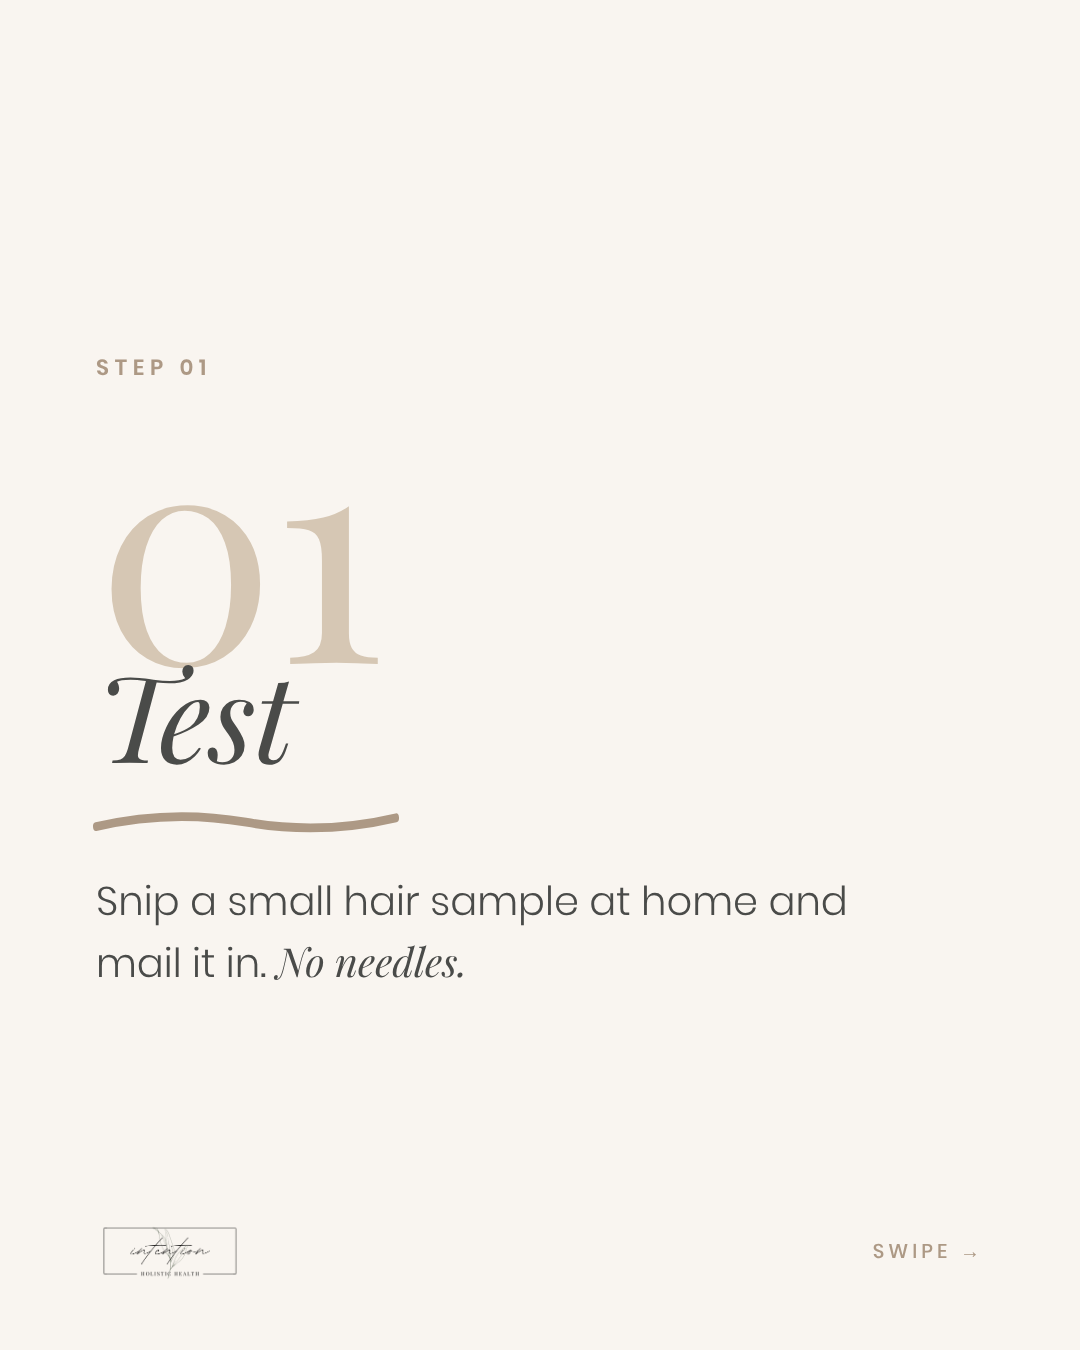
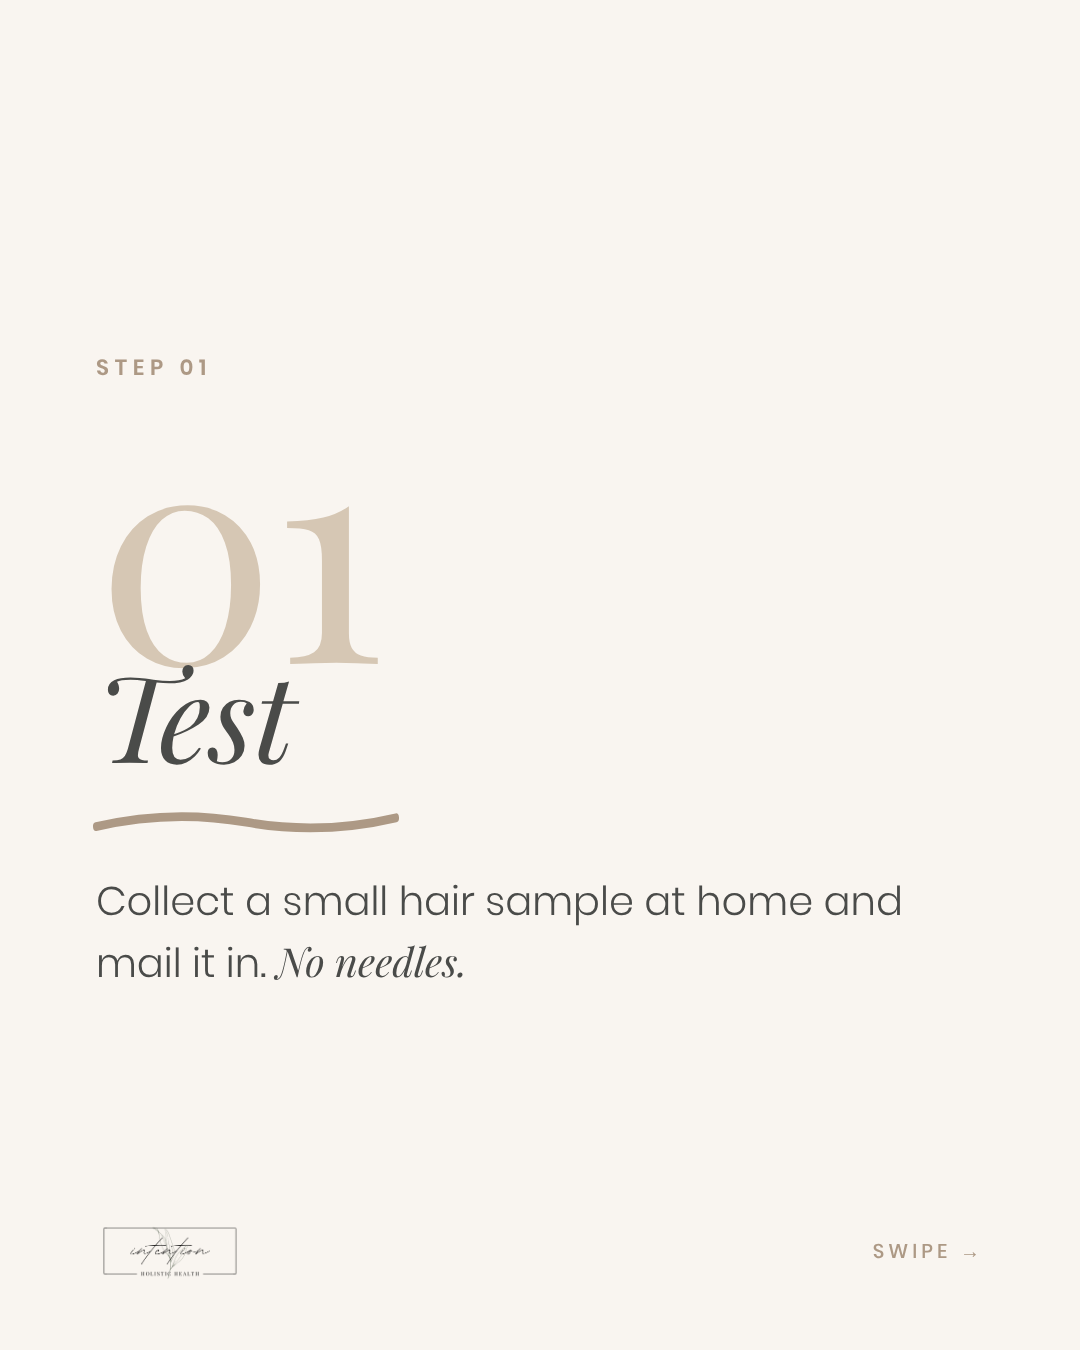
Replace "snip" wording in social captions and graphics
Claude-Session: https://claude.ai/code/session_01QwTVoJv6poL6D7AhQ94UEd

Changed region(s): [[0.0917, 0.6533, 0.825, 0.6844]]

diff --git a/docs/launch-kit.md b/docs/launch-kit.md
@@ -69,7 +69,7 @@
 > It's here: **Kids Mineral Insight is officially open.**
 >
 > Here's how it works:
-> 1. **Snip.** Your kit ships to your door. Collect a small hair sample at home with simple steps.
+> 1. **Collect.** Your kit ships to your door. Collect a small hair sample at home with simple steps.
 > 2. **Review.** We go over your child's results together, in plain language. You get a recording to rewatch or share with a co-parent.
 > 3. **Plan.** You leave with a few doable steps for food, sleep, and routines, plus a follow-up 4–6 weeks later.
 >
@@ -122,7 +122,7 @@
 **L3: Is HTMA safe for kids?** *(L3-safe-for-kids.png)*
 > Parents ask: is HTMA safe for kids? 🤍
 >
-> No needles, no blood draw: just a small snip of hair, collected at home. It's a screening tool, not a diagnosis, and it works alongside your child's pediatrician.
+> No needles, no blood draw: just a small hair sample, collected at home. It's a screening tool, not a diagnosis, and it works alongside your child's pediatrician.
 >
 > More on this soon. 👀
 
@@ -164,7 +164,7 @@
 **1b: Now open** *(1b-now-open.png; post on opening day)*
 > It's here. 💛 Kids Mineral Insight is open.
 >
-> Snip a small hair sample at home, we review the results together, and you get a simple plan for food, sleep, and routines, plus a follow-up.
+> Collect a small hair sample at home, we review the results together, and you get a simple plan for food, sleep, and routines, plus a follow-up.
 >
 > For Kentucky kids ages 4–17. Enroll: link in bio.
 
@@ -185,9 +185,9 @@
 > Ages 4–17. Link in bio.
 
 **4: How it works** *(4-how-it-works.png)*
-> No needles. Just a snip. ✂
+> No needles. Just a hair test. 🤍
 >
-> 01 Snip a small hair sample at home.
+> 01 Collect a small hair sample at home.
 > 02 We review your child's results together, in plain language.
 > 03 You get a few doable steps, plus a follow-up.
 >
@@ -215,7 +215,7 @@
 
 **Post B: Now open** (button: *Book* → /services/kids-mineral-insight.html)
 > **Kids Mineral Insight is open**
-> Snip a small hair sample at home, review your child's results with Alicia Harrison, MSN, APRN, FNP-C, and get a simple plan plus a follow-up. For Kentucky families, ages 4–17. The Mom + Child Bundle covers you and your child together.
+> Collect a small hair sample at home, review your child's results with Alicia Harrison, MSN, APRN, FNP-C, and get a simple plan plus a follow-up. For Kentucky families, ages 4–17. The Mom + Child Bundle covers you and your child together.
 
 ---
 
